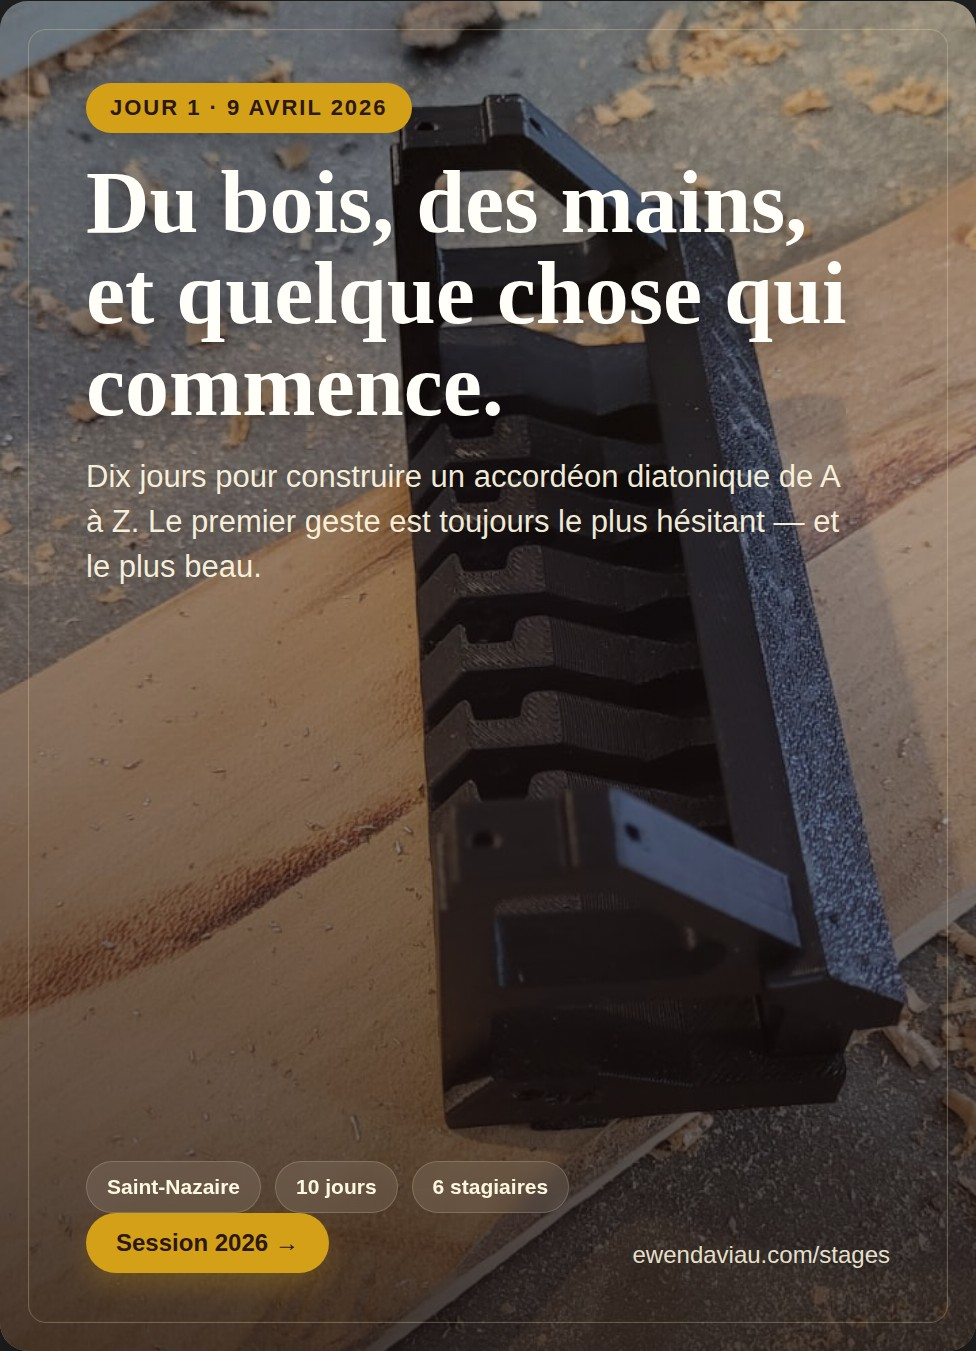
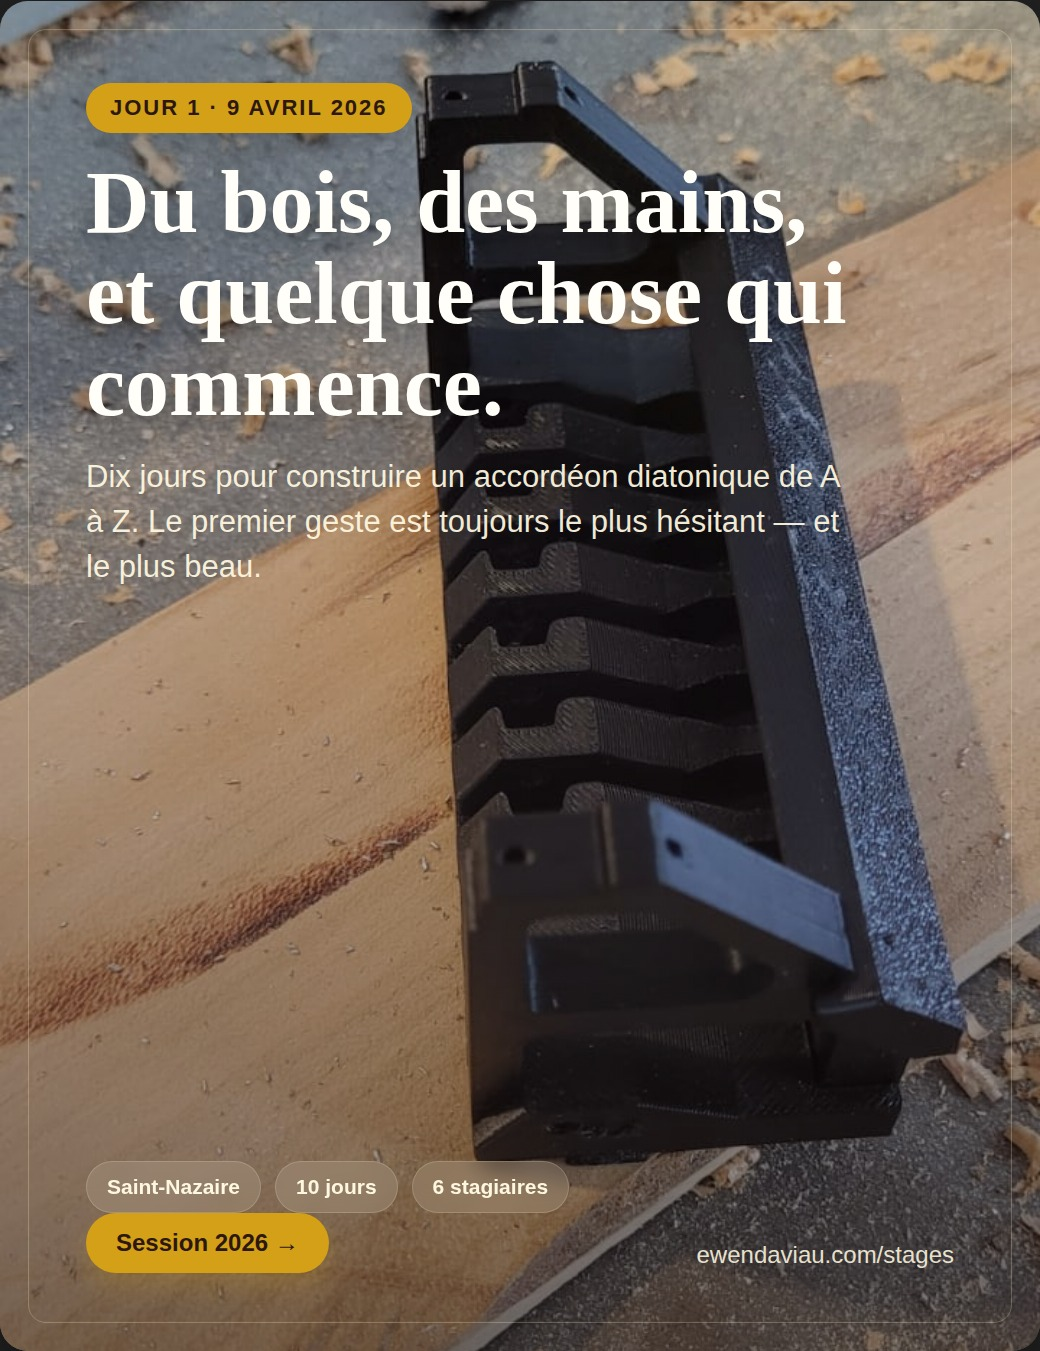
fix: overlays réduits (~50%), image jour3 chemin corrigé (17.36.51→52), publi régénérées
Agent-Logs-Url: https://github.com/labodezao/stages-lutherie/sessions/bf03b9e4-29b5-46ce-b661-ed2d10da5f95

diff --git a/comm/stages/publications-jours-1-2-3-cta-2026.html b/comm/stages/publications-jours-1-2-3-cta-2026.html
@@ -108,40 +108,40 @@
     .post-card--jour1 {
       background-image: url('stage%20avril%202026/jour1/WhatsApp%20Image%202026-04-09%20at%2021.18.17%20%281%29.jpeg');
       --card-position: center 44%;
-      --overlay-top: 0.06;
-      --overlay-mid: 0.24;
-      --overlay-bottom: 0.70;
-      --overlay-warm: 0.28;
-      --overlay-cool: 0.04;
+      --overlay-top: 0.02;
+      --overlay-mid: 0.12;
+      --overlay-bottom: 0.48;
+      --overlay-warm: 0.14;
+      --overlay-cool: 0.02;
       --gold-halo: 0.12;
       --frame-opacity: 0.24;
       --frame-glow: 0.06;
-      --fact-bg: 0.10;
+      --fact-bg: 0.14;
     }
 
     .post-card--jour2 {
       background-image: url('stage%20avril%202026/jour2/WhatsApp%20Image%202026-04-09%20at%2021.46.50.jpeg');
       --card-position: center 42%;
-      --overlay-top: 0.08;
-      --overlay-mid: 0.27;
-      --overlay-bottom: 0.72;
-      --overlay-warm: 0.22;
-      --overlay-cool: 0.06;
+      --overlay-top: 0.03;
+      --overlay-mid: 0.13;
+      --overlay-bottom: 0.50;
+      --overlay-warm: 0.12;
+      --overlay-cool: 0.03;
       --gold-halo: 0.09;
       --frame-opacity: 0.20;
-      --fact-bg: 0.12;
+      --fact-bg: 0.14;
     }
 
     .post-card--jour3 {
-      background-image: url('stage%20avril%202026/jour3/WhatsApp%20Image%202026-04-10%20at%2017.36.51.jpeg');
+      background-image: url('stage%20avril%202026/jour3/WhatsApp%20Image%202026-04-10%20at%2017.36.52.jpeg');
       --card-position: center 52%;
-      --overlay-top: 0.18;
-      --overlay-mid: 0.40;
-      --overlay-bottom: 0.82;
-      --overlay-warm: 0.36;
-      --overlay-cool: 0.12;
+      --overlay-top: 0.05;
+      --overlay-mid: 0.18;
+      --overlay-bottom: 0.55;
+      --overlay-warm: 0.18;
+      --overlay-cool: 0.06;
       --gold-halo: 0.05;
-      --frame-opacity: 0.18;
+      --frame-opacity: 0.20;
       --fact-bg: 0.14;
       --fact-border: 0.22;
     }
@@ -149,15 +149,15 @@
     .post-card--cta {
       background-image: url('stage%20avril%202026/WhatsApp%20Image%202026-04-10%20at%2017.35.13.jpeg');
       --card-position: center 36%;
-      --overlay-top: 0.05;
-      --overlay-mid: 0.23;
-      --overlay-bottom: 0.68;
-      --overlay-warm: 0.24;
-      --overlay-cool: 0.04;
+      --overlay-top: 0.02;
+      --overlay-mid: 0.11;
+      --overlay-bottom: 0.46;
+      --overlay-warm: 0.12;
+      --overlay-cool: 0.02;
       --gold-halo: 0.11;
       --frame-opacity: 0.24;
       --frame-glow: 0.06;
-      --fact-bg: 0.10;
+      --fact-bg: 0.14;
     }
 
     .card-content {
